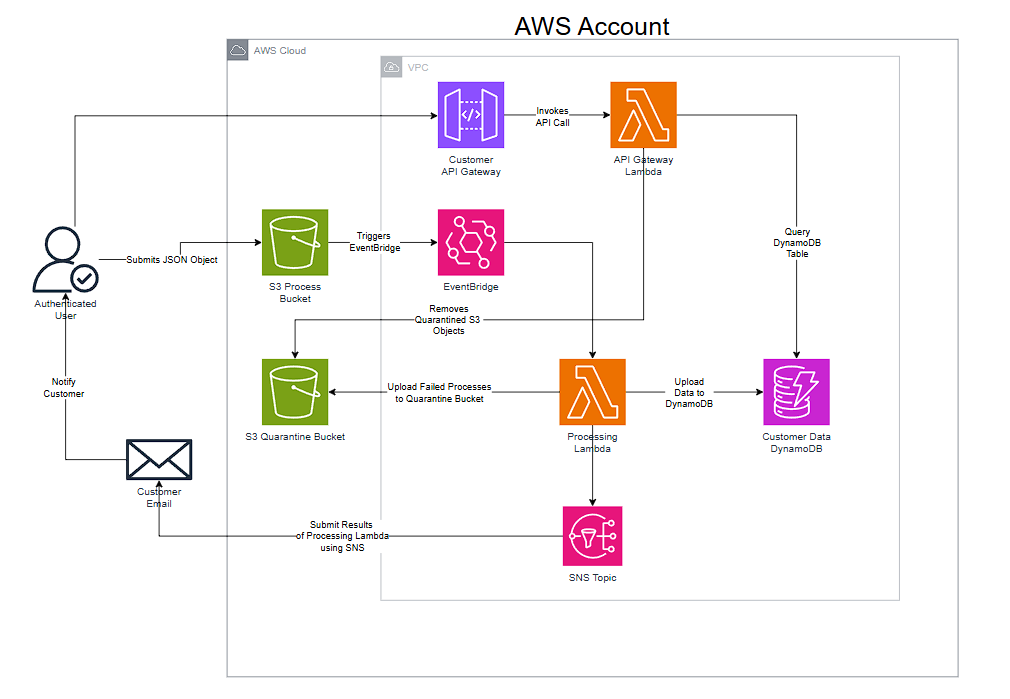
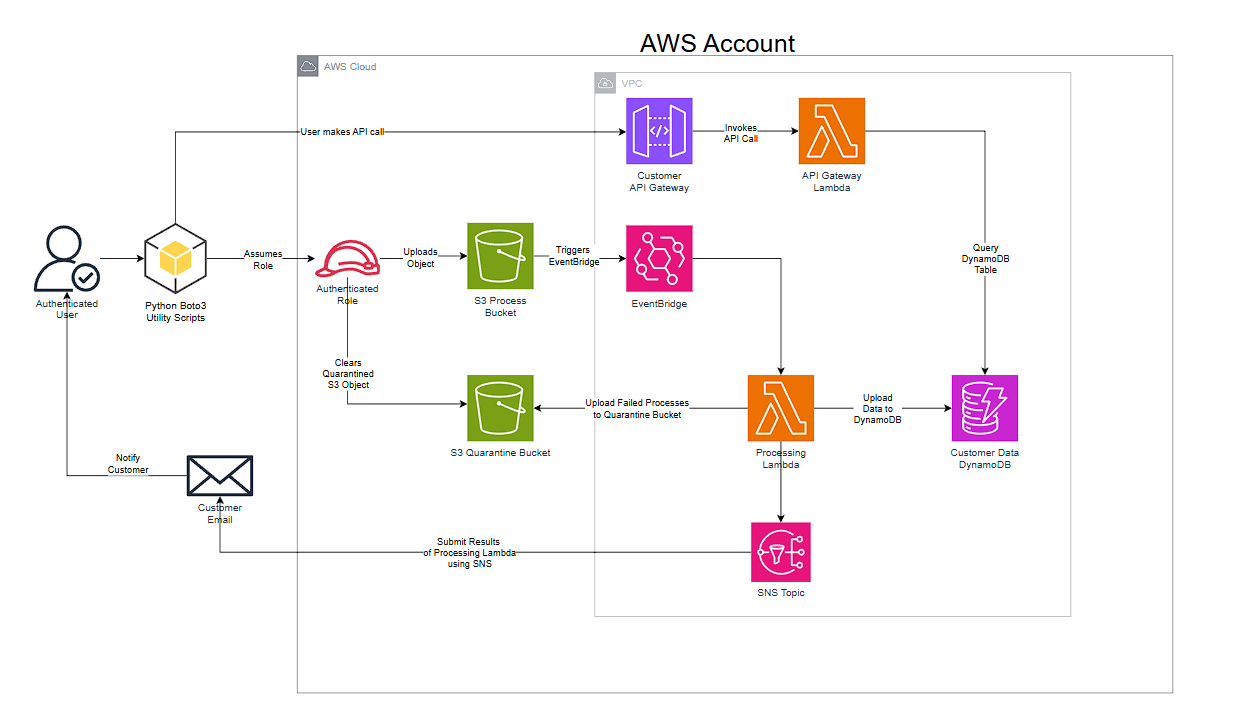
python-upload-to-s3-utility: Updated documentation and architectural diagram

Changed region(s): [[0.0307, 0.03, 0.9515, 0.9914], [0.5832, 0.3605, 0.6446, 0.4807], [0.0307, 0.5408, 0.0921, 0.5708]]

diff --git a/docs/report/index.md b/docs/report/index.md
@@ -291,7 +291,7 @@ After the lambda function executed, I received the following email notifications
 
 Based on the [Architectural Diagram](../architecture/index.md), authenticated users should be able to upload JSON objects directly to the S3 processing bucket.  To facilitate this, I created a new Python script `s3_upload.py` within the `scripts/s3_upload` directory.  This script utilizes the boto3 S3 client to upload a specified JSON file to the S3 processing bucket.  The reason for for creating this utility was to simulate user uploads without creating a web frontend.  If we were to create a web frontend, a static website could be hosted on S3 with a simple HTML form to upload files.  However, this would require additional configurations for authentication and security.
 
-For the script itself, in testing the Admin credentials were being used.
+While working on this utility, I had to update the architectural diagram to reflect that the S3 upload would be done via a Python script instead of a web frontend.  This change was made to simplify the implementation while still meeting the requirement of authenticated user uploads.  The user would still need to have valid AWS credentials to run the script, ensuring that only authenticated users can upload files to the S3 processing bucket.  That user would then be able to assume the necessary IAM role to gain access to the S3 bucket.  In a real world scenario, this could be done using AWS Cognito or another authentication service.
 
 Here were the results of the uploads:
 
@@ -309,3 +309,7 @@ Path upload_files/test.txt does produce a JSON file.
 python3 ./s3_upload.py upload_files/test-object.json
 Successfully uploaded upload_files/test-object.json to s3://eventpulse-processing-bucket/test-object.json
 ```
+
+### IAM
+
+For the script itself, in testing the Admin credentials were being used.  Now that the script is functioning as intended, IAM policies can be updated to enforce the principle of least privilege.
